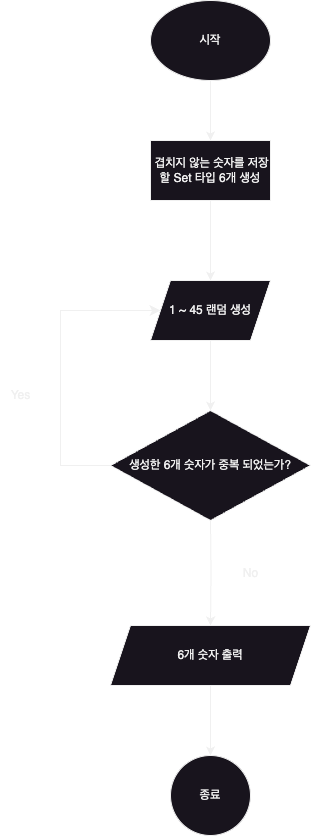
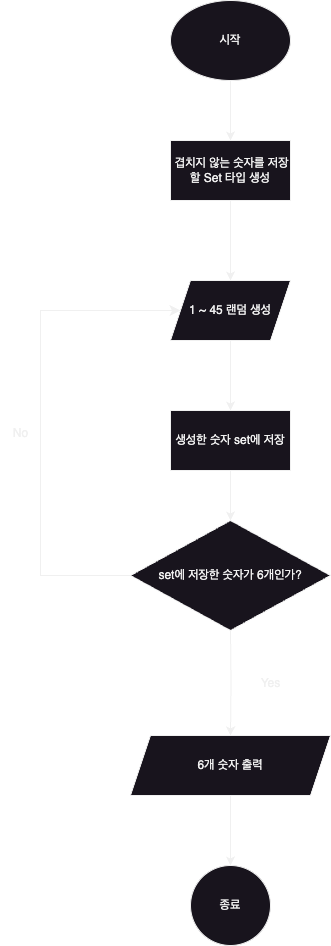
fix main.swift

diff --git a/CodeStarterCamp_Week2/main.swift b/CodeStarterCamp_Week2/main.swift
@@ -1,7 +1,7 @@
 func generateLottoNumbers() -> [Int] {
-    var lottoNumbers: Set<Int> = Set<Int>()
+    var lottoNumbers: Set<Int> = []
     while lottoNumbers.count < 6 {
-        let randomNumber = Int.random(in: 1...45)
+        let randomNumber = Int.random(in: 1...6)
         lottoNumbers.insert(randomNumber)
     }
     let sortedLottoNumbers = lottoNumbers.sorted()
@@ -10,22 +10,23 @@ func generateLottoNumbers() -> [Int] {
 
 
 
-let myLottoNumbers: [Int] = [1, 4, 27, 21, 40, 3]
+let myLottoNumbers: [Int] = [1, 2, 3, 4, 5, 6]
 
 
-func lookMatchingNumbers() {
+func findMatchingNumbers() {
     let lottoResult = generateLottoNumbers()
     print("로또 당첨 번호: \(lottoResult)")
     let matchingNumbers = Set(myLottoNumbers).intersection(lottoResult)
-    if Set(myLottoNumbers) != Set(lottoResult) {
+    if myLottoNumbers != lottoResult {
         print("아쉽지만 겹치는 번호가 없습니다.")
-    } else if  Set(myLottoNumbers) == Set(lottoResult) {
-        print("축하합니다! 겹치는 번호는 \(matchingNumbers.sorted()) 입니다!")
+    } else if myLottoNumbers == lottoResult {
+        let matchingNumbersString = matchingNumbers.sorted().map { String($0) }.joined(separator: ", ")
+        print("축하합니다! 겹치는 번호는 \(matchingNumbersString) 입니다!")
     }
-        
 }
 
 
 
+findMatchingNumbers()
 
-lookMatchingNumbers()
+
